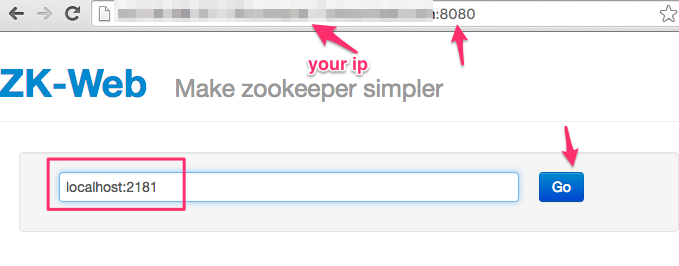
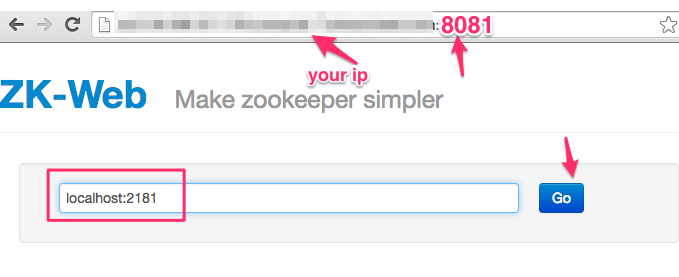
updating zk-web port

diff --git a/labs/1.1-zookeeper.md b/labs/1.1-zookeeper.md
@@ -119,8 +119,8 @@ We can also use [zk-web](https://github.com/qiuxiafei/zk-web) to examine zookeep
     $    cd
 ```
 
-zk-web can be accessed via port 8080.  
-Go to http://your_ip_address:8080 in a browser.  Substitute your own machine IP.
+zk-web can be accessed via port 8081.  
+Go to http://your_ip_address:8081 in a browser.  Substitute your own machine IP.
 
 <img src="../assets/images/1.1a.png" style="border: 5px solid grey ; max-width:100%;"  />
 
